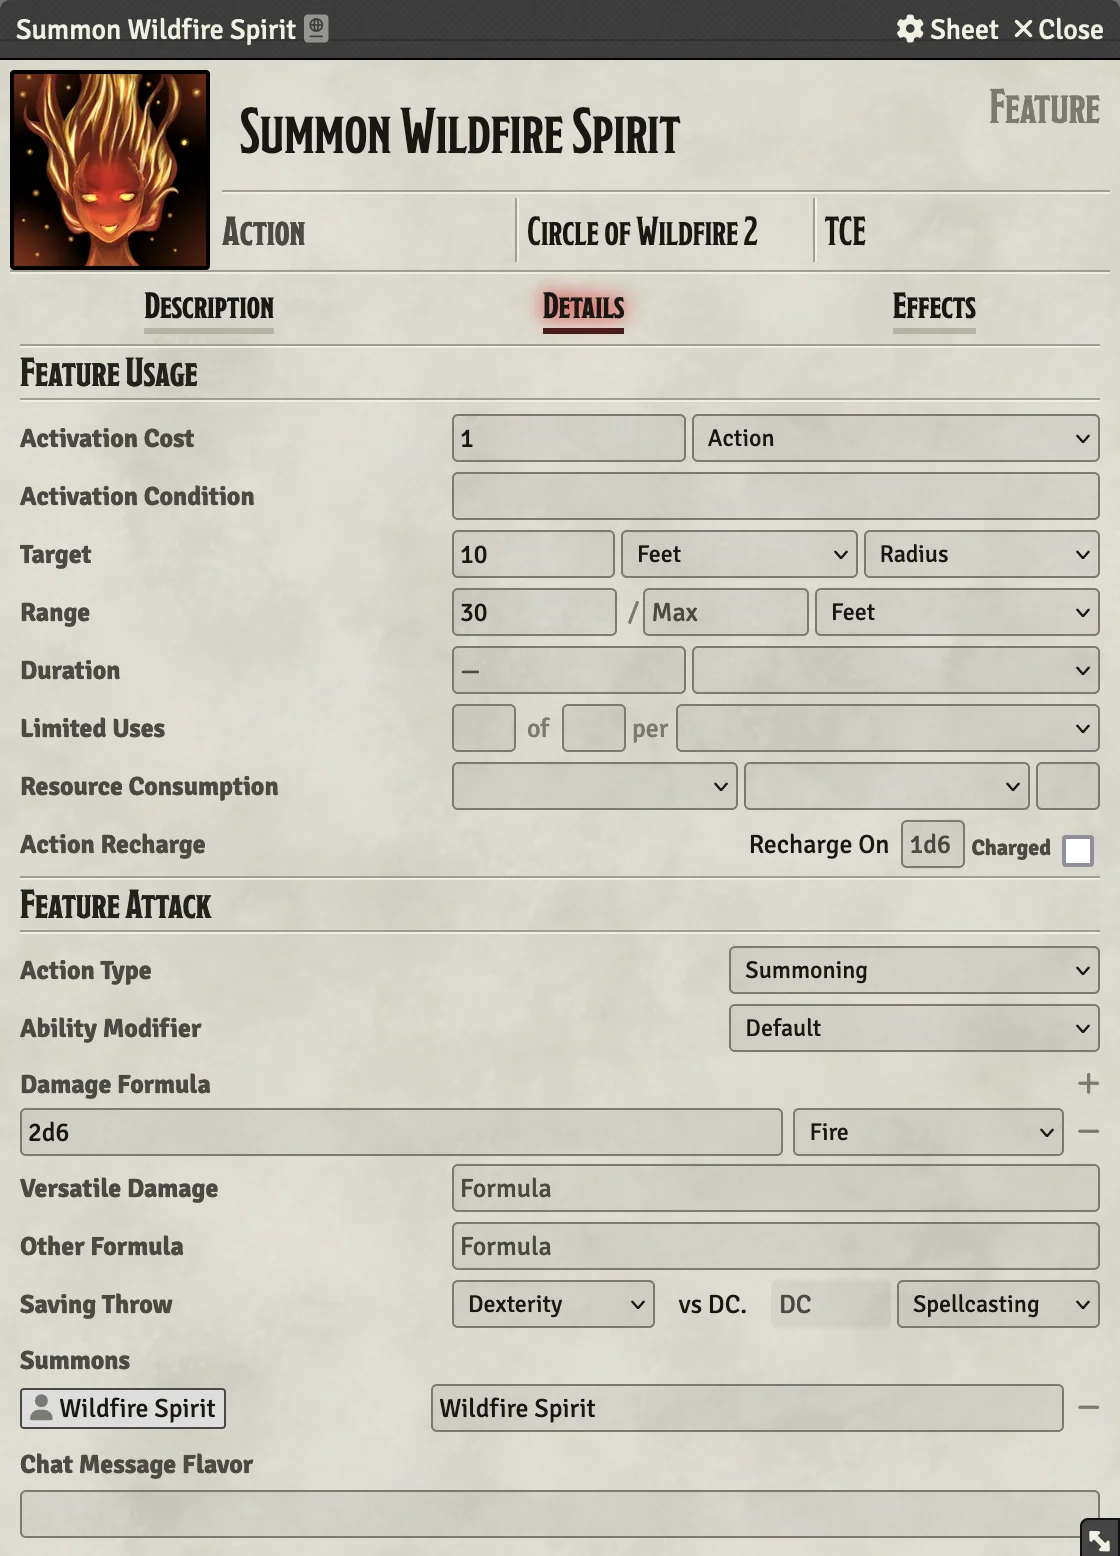
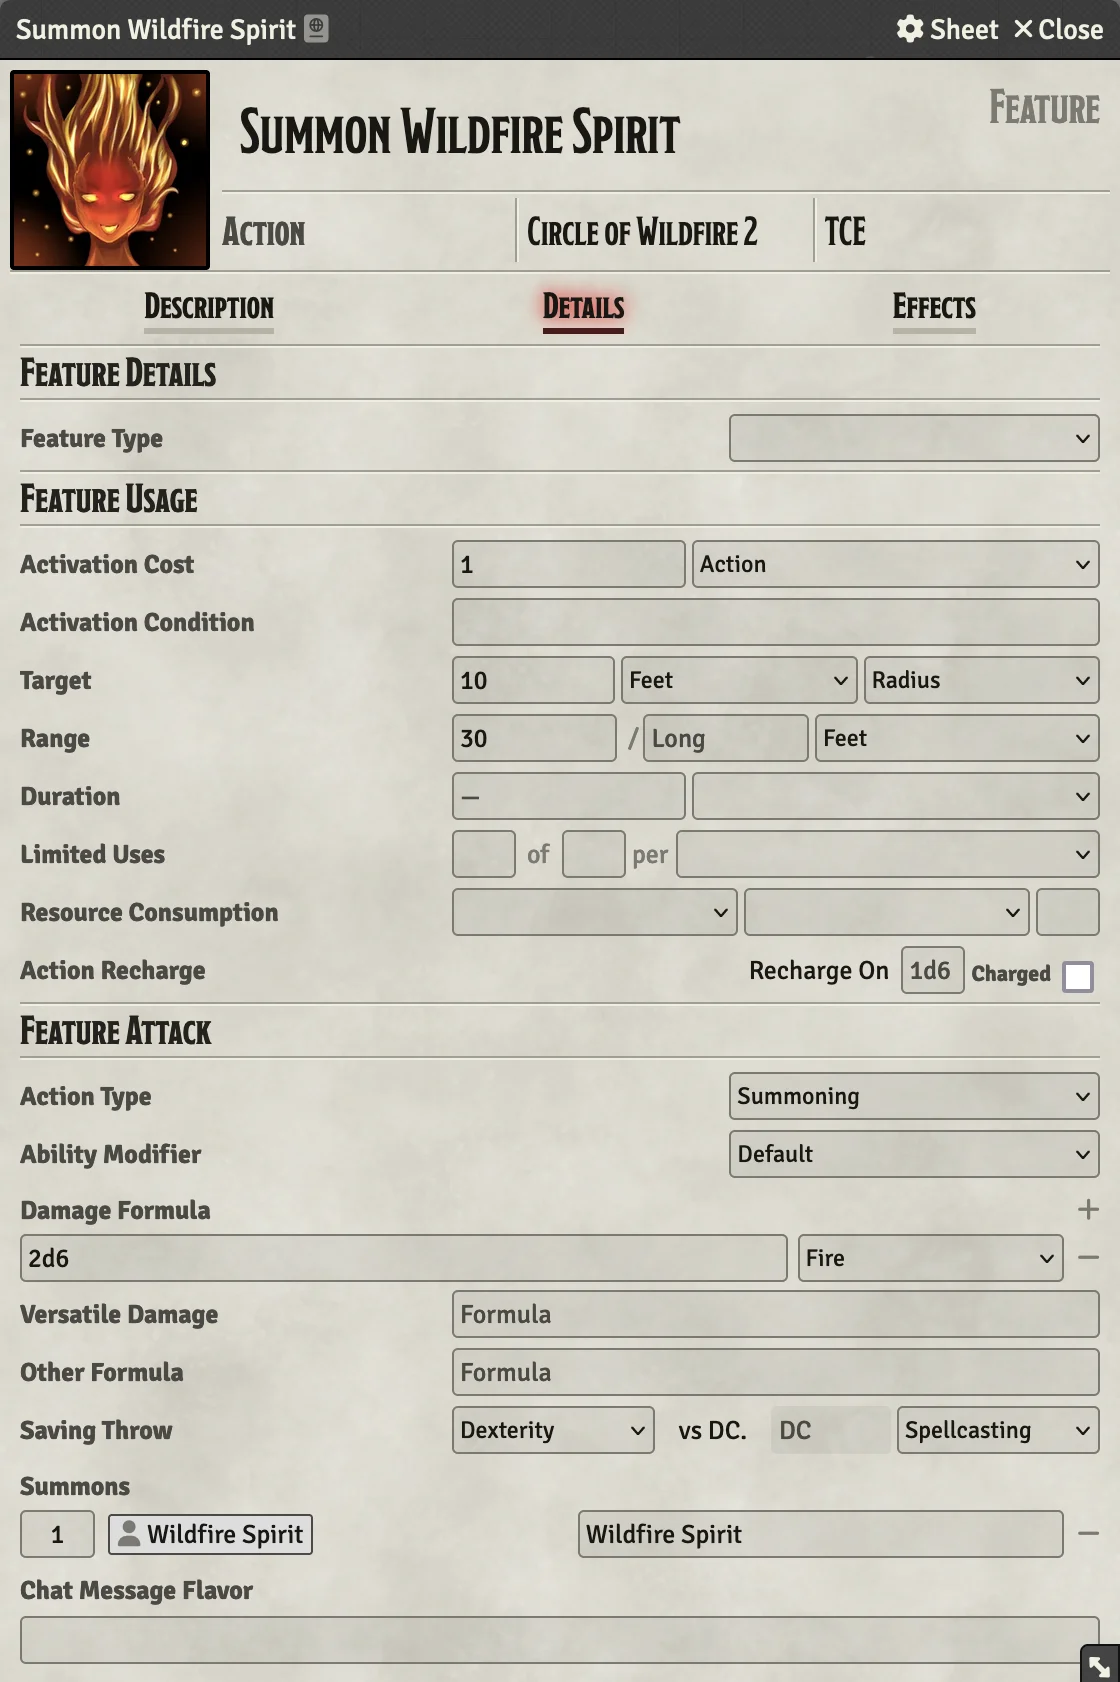
Update readme and screenshot with summons count

diff --git a/readme.md b/readme.md
@@ -55,6 +55,8 @@ Next, it is time to modify your feature or spell to handle the summoning. Open u
   configured in the summons section"
   src="images/feature-configuration.webp" width="750">
 
+The count field can be used to summon more than one actor at a time. This is useful for a spell like `"Dancing Lights"` which allows the caster to summon 4 smaller globes with a single casting.
+
 The name field next to the item will change the name as displayed in the summoning window, but will not change the name of the summoned actor.
 
 
